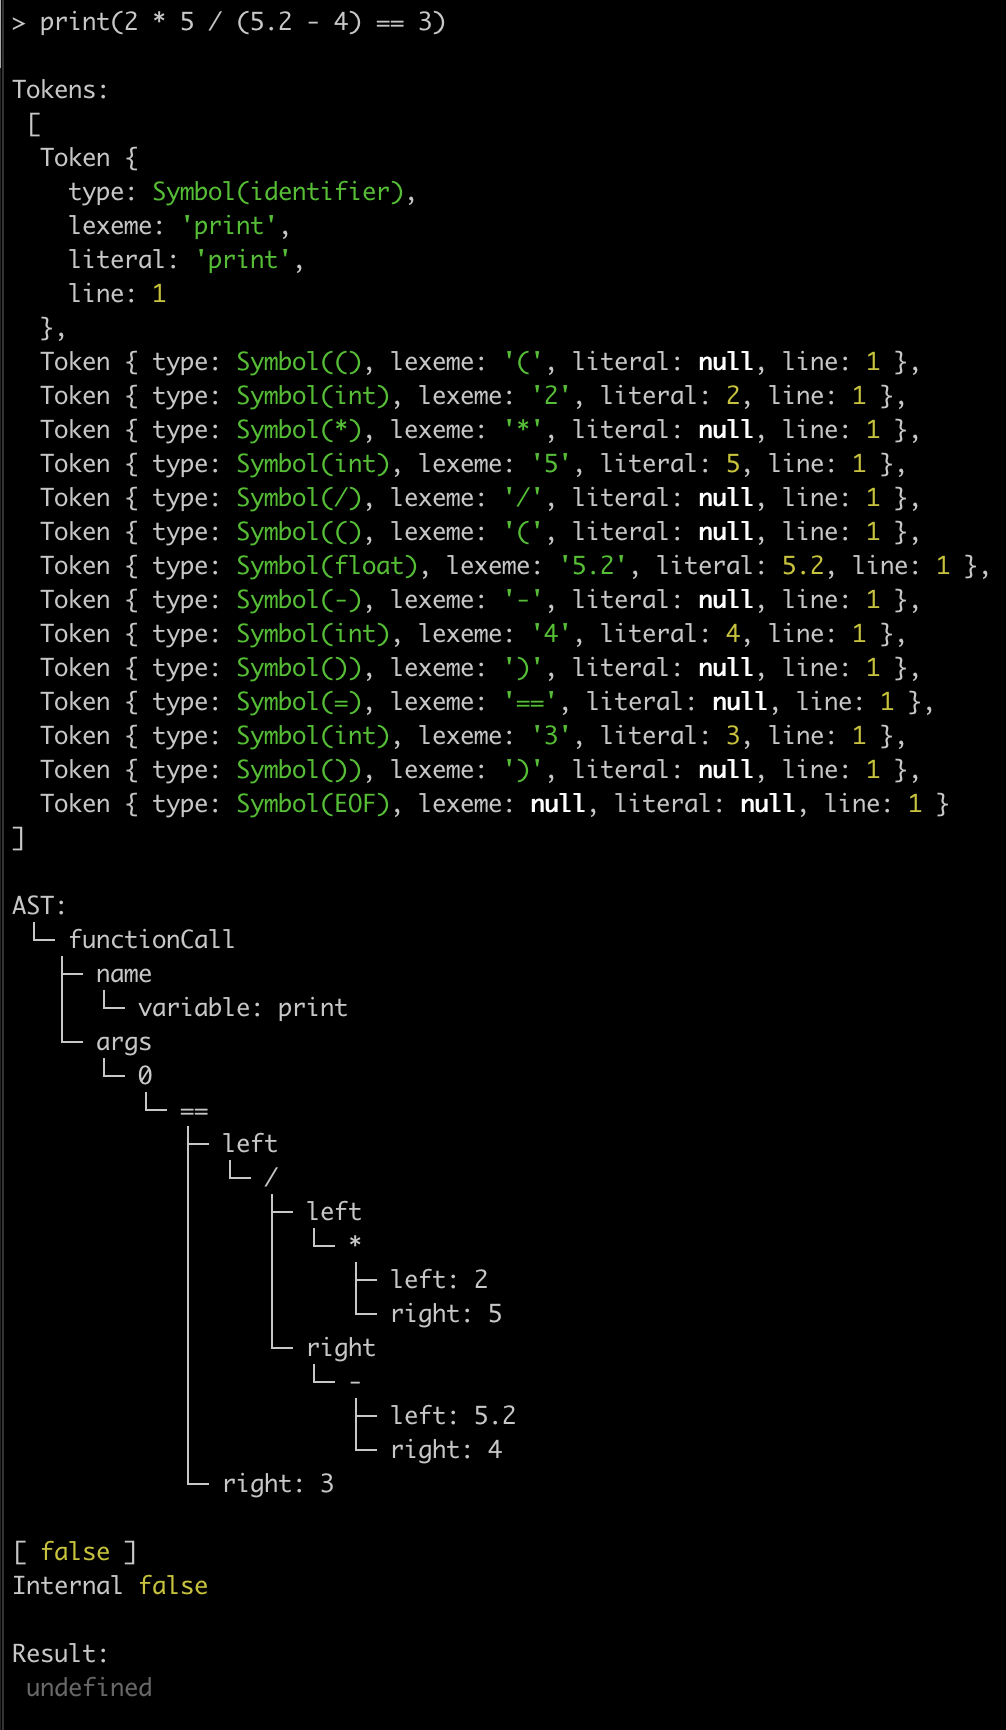
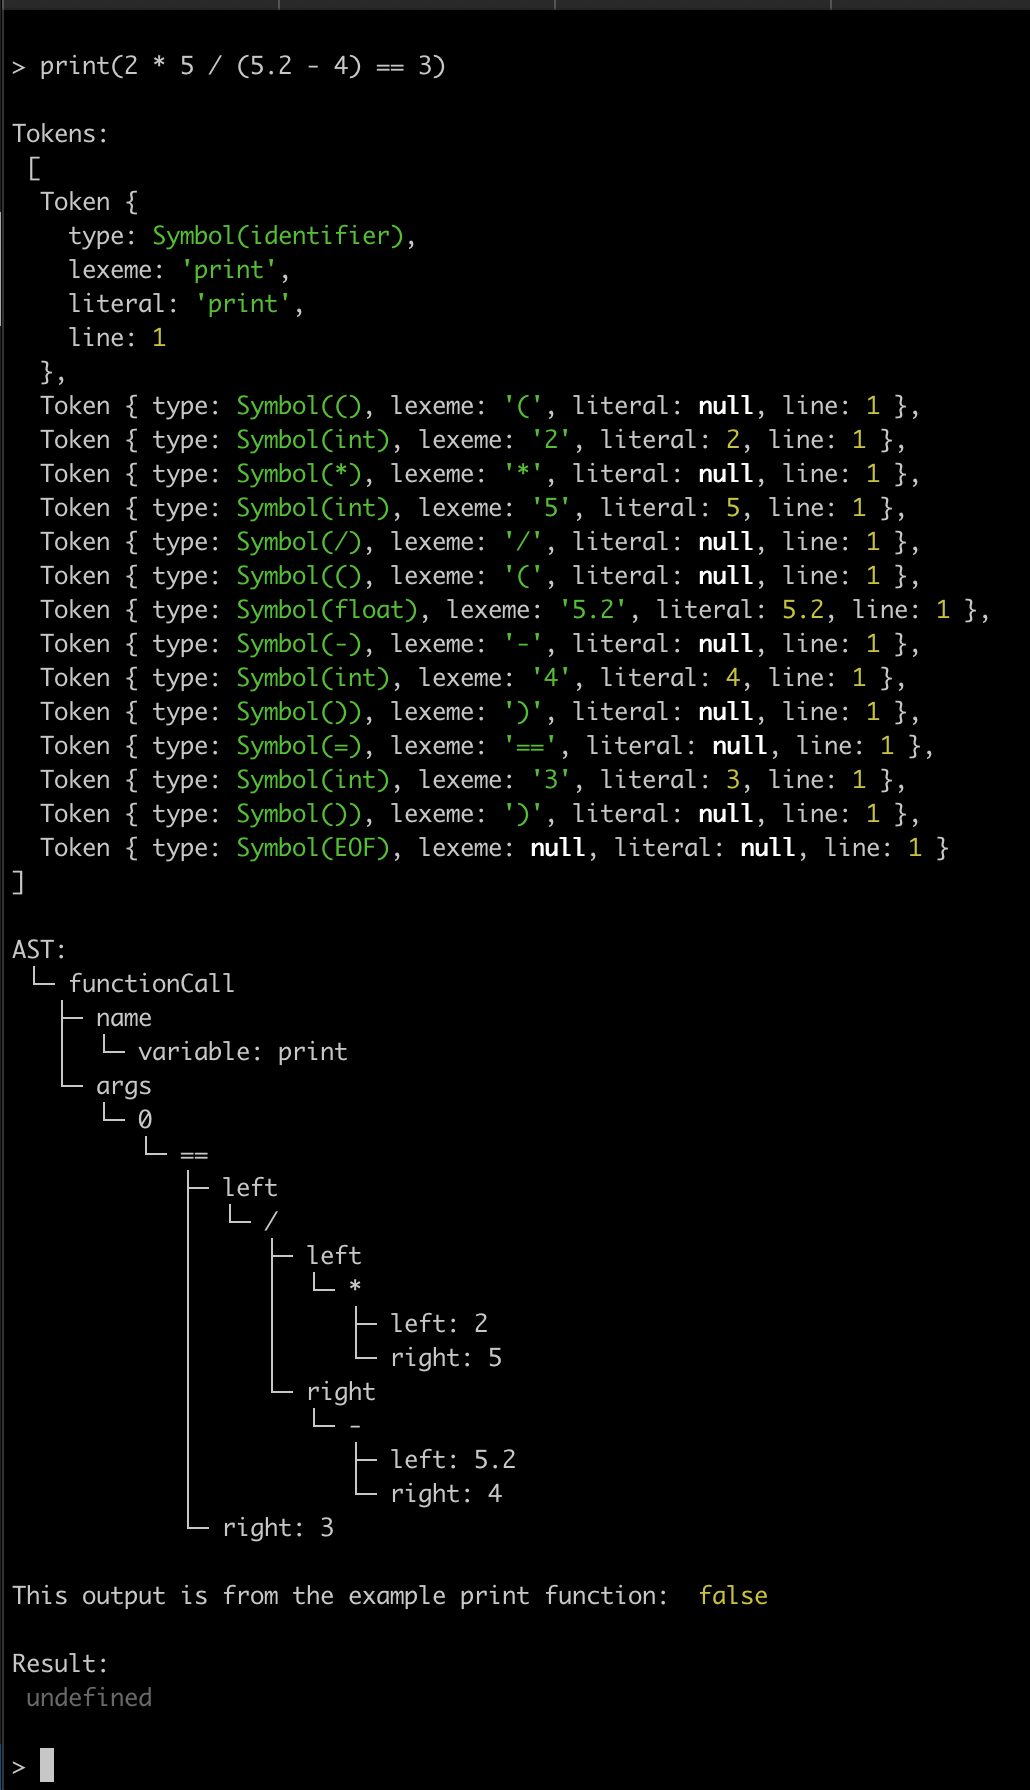
SF

diff --git a/src/interpreter/functions/PrintFunction.js b/src/interpreter/functions/PrintFunction.js
@@ -2,7 +2,7 @@ import Callable from "../Callable";
 
 class PrintFunction extends Callable {
     doCall(interpreter, args) {
-        console.log('Internal', ...args);
+        console.log('This output is from the example print function: ', ...args);
     }
 
     arity() {
